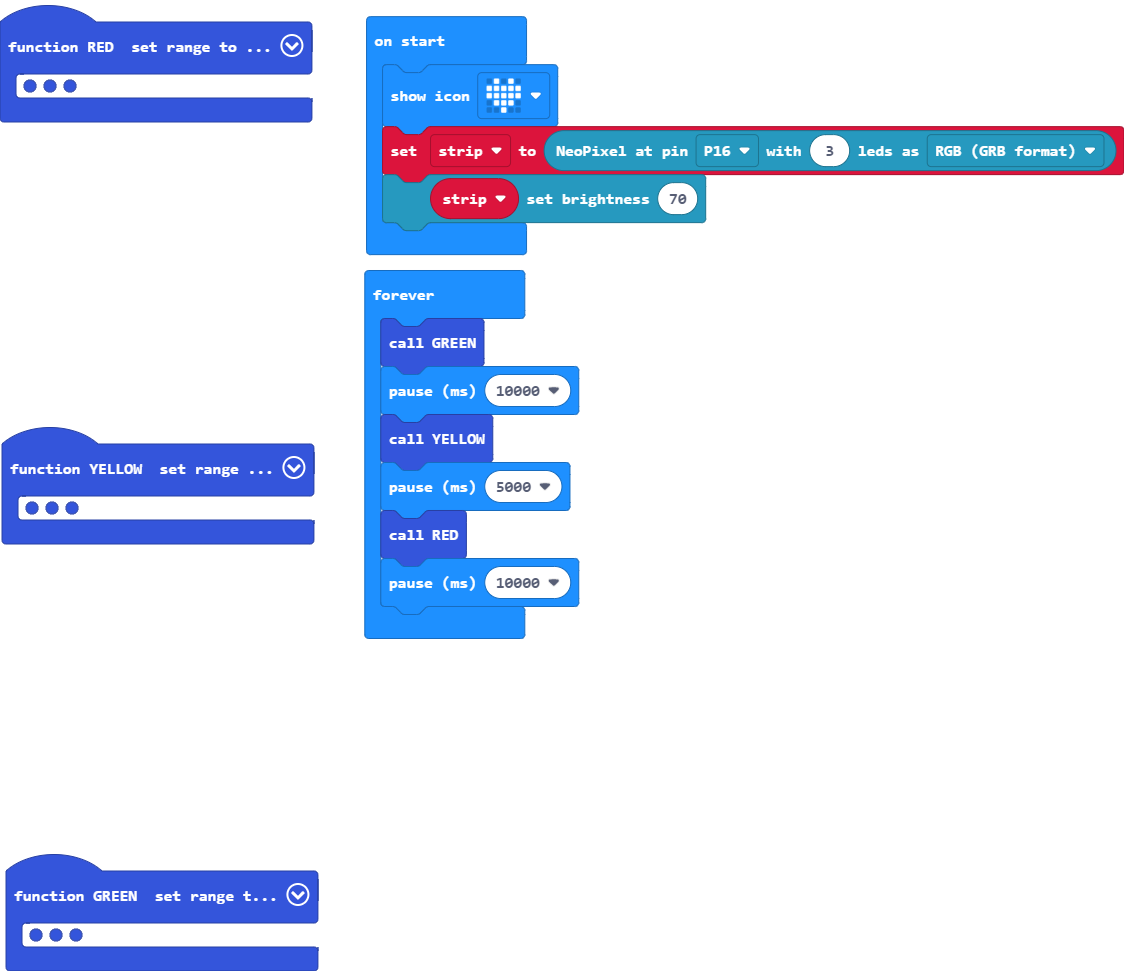
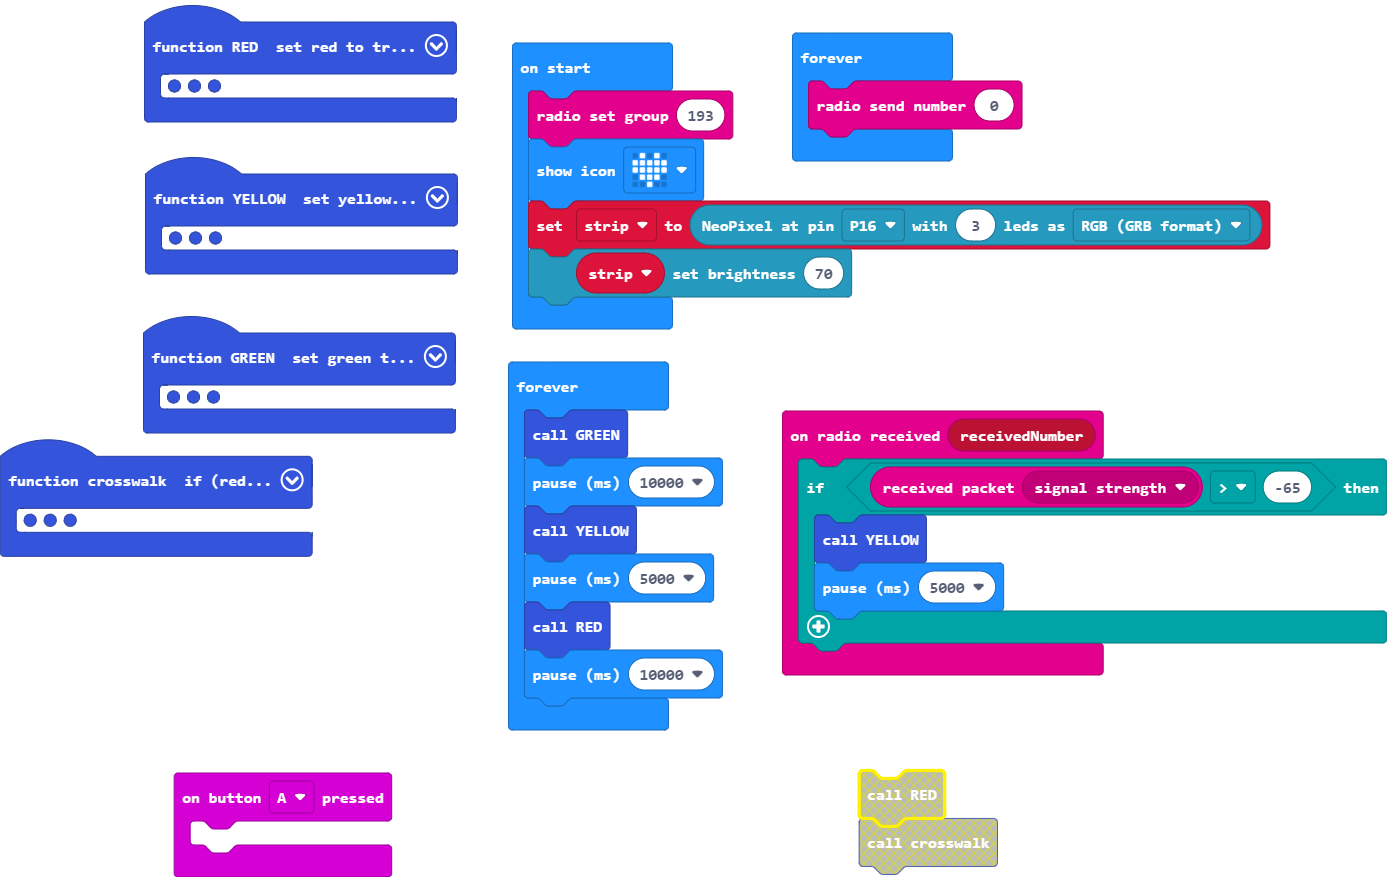
Update main.blocks, main.ts

diff --git a/main.ts b/main.ts
@@ -1,4 +1,20 @@
+radio.onReceivedNumber(function (receivedNumber) {
+    if (radio.receivedPacket(RadioPacketProperty.SignalStrength) > -65) {
+        YELLOW()
+        basic.pause(5000)
+    }
+})
+function crosswalk () {
+    if (red == true) {
+        basic.showIcon(IconNames.StickFigure)
+        music.playMelody("C5 - A - C5 - A - ", 120)
+    }
+}
+input.onButtonPressed(Button.A, function () {
+	
+})
 function RED () {
+    red = true
     range = strip.range(0, 1)
     range.showColor(neopixel.colors(NeoPixelColors.Red))
     range = strip.range(1, 1)
@@ -7,6 +23,7 @@ function RED () {
     range.showColor(neopixel.colors(NeoPixelColors.Black))
 }
 function GREEN () {
+    green = true
     range = strip.range(2, 1)
     range.showColor(neopixel.colors(NeoPixelColors.Green))
     range = strip.range(1, 1)
@@ -15,6 +32,7 @@ function GREEN () {
     range.showColor(neopixel.colors(NeoPixelColors.Black))
 }
 function YELLOW () {
+    yellow = true
     range = strip.range(1, 1)
     range.showColor(neopixel.colors(NeoPixelColors.Yellow))
     range = strip.range(0, 1)
@@ -22,11 +40,18 @@ function YELLOW () {
     range = strip.range(3, 1)
     range.showColor(neopixel.colors(NeoPixelColors.Black))
 }
+let yellow = false
+let green = false
 let range: neopixel.Strip = null
+let red = false
 let strip: neopixel.Strip = null
+radio.setGroup(193)
 basic.showIcon(IconNames.Heart)
 strip = neopixel.create(DigitalPin.P16, 3, NeoPixelMode.RGB)
 strip.setBrightness(70)
+basic.forever(function () {
+    radio.sendNumber(0)
+})
 basic.forever(function () {
     GREEN()
     basic.pause(10000)
